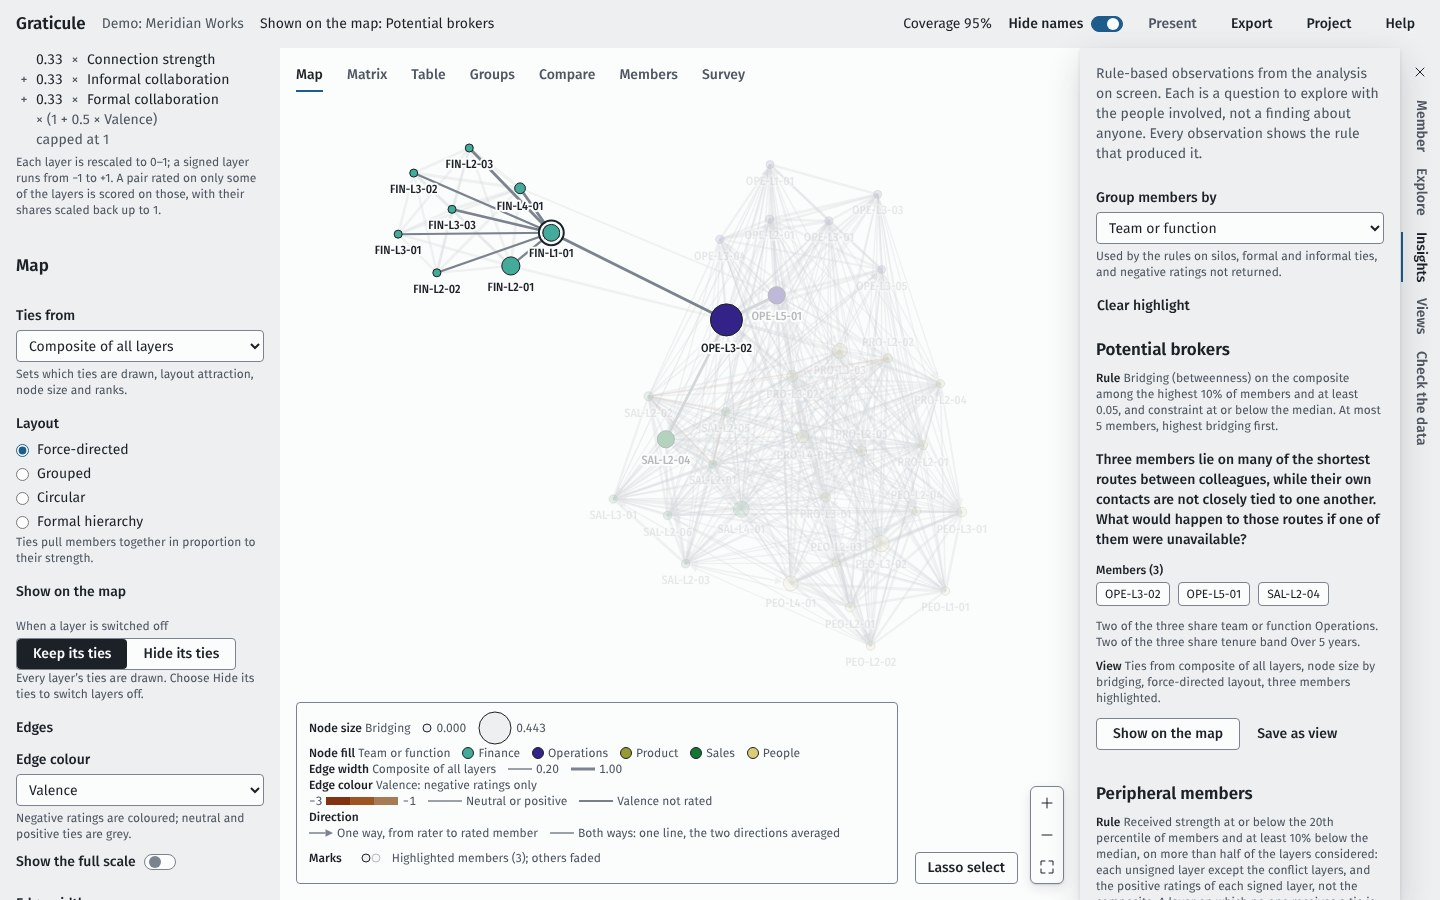
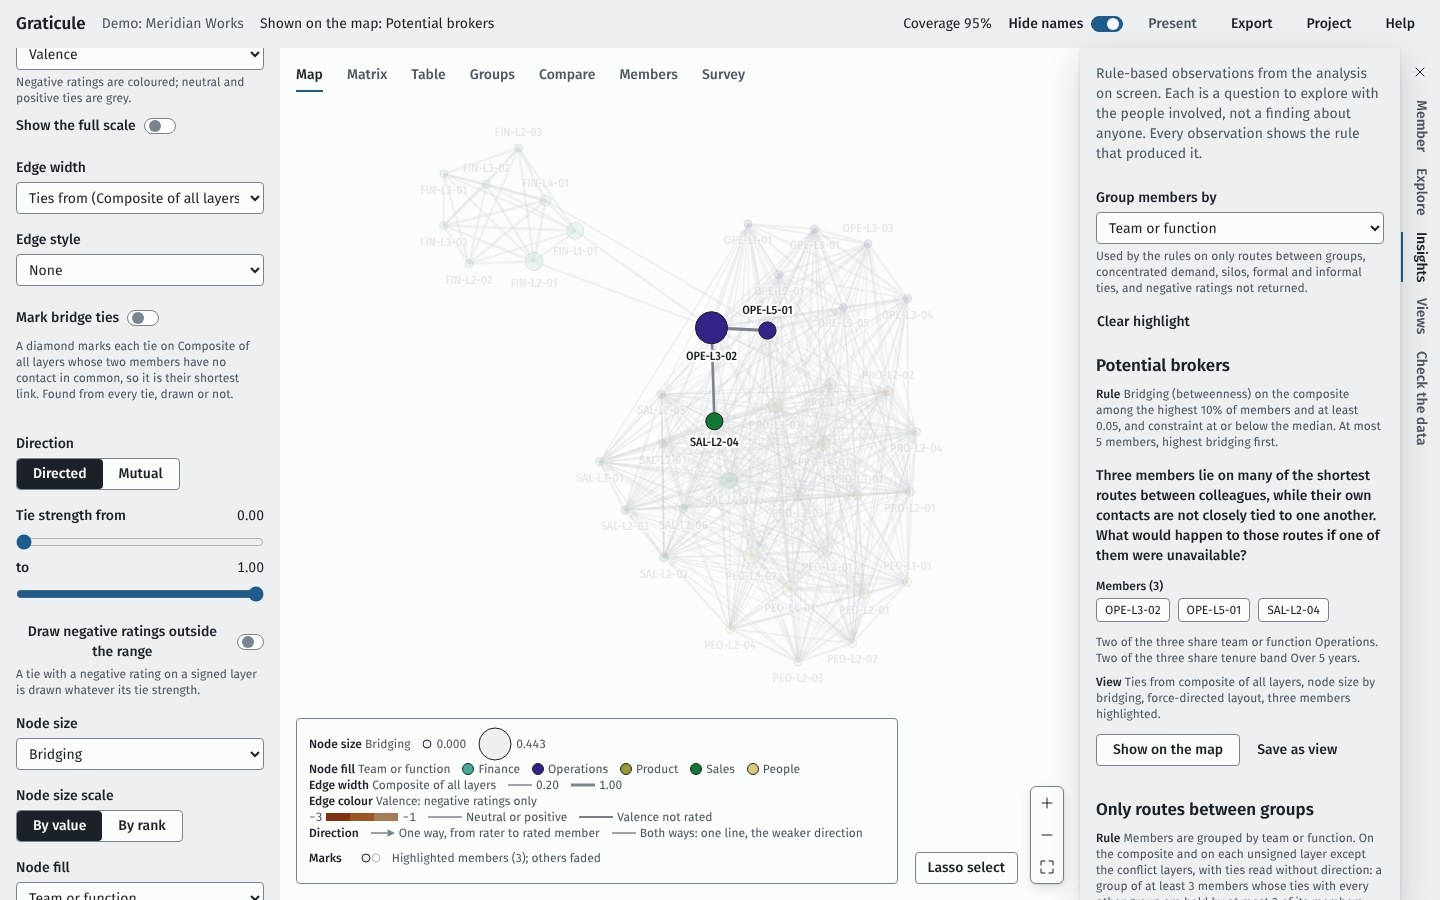
Cover bridge ties and incoming ties in the end-to-end specs and the user guide
Claude-Session: https://claude.ai/code/session_01LVwwwSZeYMQT6nepUGCbDA

diff --git a/tests/e2e/guide.spec.ts b/tests/e2e/guide.spec.ts
@@ -208,6 +208,34 @@ test('screenshots of the analyst workspace, names hidden', NIGHTLY, async ({ pag
   await page.getByRole('radio', { name: 'Force-directed' }).check();
   await settled(page);
 
+  // Bridge ties (build plan session 7): connection strength, mutual by the weaker direction.
+  await page
+    .getByRole('region', { name: 'Map' })
+    .getByLabel('Ties from')
+    .selectOption({ label: 'Connection strength' });
+  await page.getByRole('radio', { name: 'Mutual' }).check();
+  await page
+    .getByLabel('Combine the two directions by')
+    .selectOption({ label: 'Weaker of the two' });
+  // Bridges are often weak ties, so every tie is drawn; no member is selected, so nothing is faded.
+  const closePanel = page.getByRole('button', { name: 'Close member panel' });
+  if ((await closePanel.count()) > 0) await closePanel.first().click();
+  await page.getByLabel('Tie strength from').fill('0');
+  await page.getByRole('switch', { name: 'Mark bridge ties' }).click();
+  await settled(page);
+  await expect(
+    page.getByRole('region', { name: 'Legend' }).getByText(/^Bridge tie: /),
+  ).toBeVisible();
+  await shot(page, 'bridge-ties');
+  await page.getByRole('switch', { name: 'Mark bridge ties' }).click();
+  await page.getByLabel('Tie strength from').fill('0.3');
+  await page.getByRole('radio', { name: 'Directed', exact: true }).check();
+  await page
+    .getByRole('region', { name: 'Map' })
+    .getByLabel('Ties from')
+    .selectOption({ index: 0 });
+  await settled(page);
+
   await rightTab(page, 'Explore').click();
   await right(page).getByLabel('From', { exact: true }).selectOption({ index: 3 });
   await right(page).getByLabel('To', { exact: true }).selectOption({ index: 30 });
@@ -278,6 +306,16 @@ test('screenshots of the analyst workspace, names hidden', NIGHTLY, async ({ pag
   await page.getByRole('radio', { name: 'Tie strength' }).check();
   await centreTab(page, 'Table').click();
   await shot(page, 'metrics-table');
+  // Ranked bars of incoming ties (build plan session 7), on the composite (the demo has no advice layer).
+  await page.getByRole('radio', { name: 'Incoming ties' }).check();
+  const openDrawer = page.getByRole('button', {
+    name: 'Member, insights and coverage',
+    expanded: true,
+  });
+  if ((await openDrawer.count()) > 0) await openDrawer.click();
+  await expect(page.getByRole('table', { name: /^Ties received on / })).toBeVisible();
+  await shot(page, 'incoming-ties');
+  await page.getByRole('radio', { name: 'Metrics' }).check();
   // The Groups view (D154), with Finance chosen as the subgroup, then cleared.
   await centreTab(page, 'Groups').click();
   // The compact layout's drawer, left open by an earlier step, would cover the group map.
@@ -307,7 +345,7 @@ test('screenshots of the analyst workspace, names hidden', NIGHTLY, async ({ pag
   await expectNoNames(page);
 
   const help = await openHelp(page, 'Method notes');
-  await expect(help.getByRole('heading', { name: 'Betweenness' })).toBeVisible();
+  await expect(help.getByRole('heading', { name: 'Betweenness', exact: true })).toBeVisible();
   await shot(page, 'help');
   expect(problems).toEqual([]);
 });
@@ -516,7 +554,7 @@ test(
       'true',
     );
     await expect(dialog.getByRole('heading', { name: 'Method notes' })).toHaveCount(0);
-    await expect(dialog.getByRole('heading', { name: 'Betweenness' })).toBeVisible();
+    await expect(dialog.getByRole('heading', { name: 'Betweenness', exact: true })).toBeVisible();
     await expectNoAxeViolations(page, 'method notes');
 
     // And the method notes link back to the user guide.

diff --git a/tests/e2e/present.spec.ts b/tests/e2e/present.spec.ts
@@ -156,7 +156,17 @@ test('insights: every rule with its rule text, questions, and a link to the view
   await expect(panel.getByText(/Members are grouped by team or function\./).first()).toBeVisible();
   // Each rule states its thresholds; one that cannot run says why.
   await expect(panel.getByText(/among the highest 10% of members/)).toBeVisible();
-  await expect(panel.getByText(/Not applied: this rule reads the advice/)).toBeVisible();
+  // Possible overload and concentrated demand both read advice and workflow dependency.
+  await expect(panel.getByText(/Not applied: this rule reads the advice/)).toHaveCount(2);
+  // Only routes between groups: Finance's two routes on connection strength, and OPE04.
+  await expect(
+    panel.getByText(
+      /two members of the 8 in Finance hold all 2 ties between Finance and other groups/,
+    ),
+  ).toBeVisible();
+  await expect(
+    panel.getByText(/8 members are linked to the rest of the network only through one colleague/),
+  ).toBeVisible();
   // Questions, never verdicts.
   await expect(panel.getByText(/most ties involving Finance stay within Finance/)).toBeVisible();
   await expect(panel.getByText(/How does work reach the rest of the organisation\?/)).toBeVisible();
@@ -420,6 +430,11 @@ test('anonymisation: no display name in the DOM or on the canvas in any view', a
   await page.getByLabel('Search', { exact: true }).fill('FIN');
   await check('map search');
   await page.getByLabel('Search', { exact: true }).fill('');
+  // Bridge ties marked (build plan session 7).
+  await page.getByRole('switch', { name: 'Mark bridge ties' }).click();
+  await settled(page);
+  await check('bridge ties');
+  await page.getByRole('switch', { name: 'Mark bridge ties' }).click();
 
   // Explore tools: ego view, path, subgroup, resilience.
   await rightTab(page, 'Explore').click();
@@ -441,6 +456,10 @@ test('anonymisation: no display name in the DOM or on the canvas in any view', a
   // Table, comparison views, insights, coverage, saved views.
   await centreTab(page, 'Table').click();
   await check('metrics table');
+  // Ranked bars of incoming ties (build plan session 7).
+  await page.getByRole('radio', { name: 'Incoming ties' }).check();
+  await check('incoming ties');
+  await page.getByRole('radio', { name: 'Metrics' }).check();
   // The Groups view (D154): by team and by community, with a group chosen as the subgroup.
   await centreTab(page, 'Groups').click();
   await page

diff --git a/tests/e2e/map.spec.ts b/tests/e2e/map.spec.ts
@@ -165,6 +165,14 @@ test('load demo, map renders, filter, select a member, open the panel, traverse 
     legend.getByText('Community outline, detected on Composite of all layers'),
   ).toBeVisible();
   await page.getByRole('switch', { name: 'Outline communities' }).click();
+  // Bridge ties (build plan session 7): switched by keyboard, explained in the legend.
+  const bridges = page.getByRole('switch', { name: 'Mark bridge ties' });
+  await bridges.focus();
+  await page.keyboard.press('Space');
+  await expect(bridges).toBeChecked();
+  await expect(legend.getByText(/^Bridge tie/)).toBeVisible();
+  await page.keyboard.press('Space');
+  await expect(legend.getByText(/^Bridge tie/)).toHaveCount(0);
   await expectNoAxeViolations(page);
 
   // Layer toggles can also hide a layer's ties.

diff --git a/src/ui/views/RankedBars.tsx b/src/ui/views/RankedBars.tsx
@@ -35,7 +35,12 @@ export function RankedBars({ data }: { data: MapData }) {
   const layer = incomingLayer(layers, chosen, settings.layer);
   const rows = layer ? incomingRows(project, result, layer, model) : [];
   const load = layer ? result.refs[layer]?.load : undefined;
-  const label = (key: string) => refLabel(project, key);
+  const label = (key: string) =>
+    key === 'composite'
+      ? mapCopy.controls.composite
+      : key.endsWith('+')
+        ? T.positive(refLabel(project, key))
+        : refLabel(project, key);
   const fillKey = settings.fill.kind === 'attribute' ? settings.fill.key : settings.groupBy;
   const fillAttr = project.attribute_definitions.find((a) => a.key === fillKey);
   const inGroup = new Set(group);

diff --git a/tests/e2e/release.spec.ts b/tests/e2e/release.spec.ts
@@ -147,7 +147,7 @@ test(
     const help = page.getByRole('dialog', { name: 'Help' });
     await expect(help.getByRole('heading', { name: 'Reading each metric' })).toBeVisible();
     await help.getByRole('tab', { name: 'Method notes' }).click();
-    await expect(help.getByRole('heading', { name: 'Betweenness' })).toBeVisible();
+    await expect(help.getByRole('heading', { name: 'Betweenness', exact: true })).toBeVisible();
     await help.getByRole('tab', { name: 'Help for respondents' }).click();
     await expect(help.getByRole('heading', { name: 'Who will see your answers' })).toBeVisible();
     await help.getByRole('button', { name: 'Close' }).click();

diff --git a/src/ui/copy/table.ts b/src/ui/copy/table.ts
@@ -42,6 +42,7 @@ export const tableCopy = {
 
   incoming: {
     layer: 'Layer',
+    positive: (layer: string) => `${layer}, positive ratings`,
     caption: (layer: string, n: number) =>
       `Ties received on ${layer} by ${count(n, 'member', 'members')}, most first`,
     rank: 'Rank',

diff --git a/docs/user-guide.md b/docs/user-guide.md
@@ -218,7 +218,7 @@ The legend shows:
 - **Edge width**: tie strength on the layer chosen under Ties from, or on another layer you choose; or the same for every tie. A tie with no rating on the width layer is drawn thinnest, in grey, with its own legend entry, so it is never read as 0.
 - **Edge colour**: by default, negative valence ratings in orange-brown, with neutral and positive ties in grey; "Show the full scale" adds blue for positive ratings. Ties with no valence rating are dark grey, so they are never read as neutral. Edge colour can instead show another signed layer, the strength of any layer on a blue ramp, whether a tie runs within or between groups, or nothing.
 - **Edge style**: formal only (solid), informal only (dashed), both (solid with a dashed line), or neither (dotted). It is off until you choose it under Edge style.
-- **Marks**: community outlines, when switched on, and the subgroup, a shortest path or highlighted members.
+- **Marks**: community outlines and bridge ties, when switched on, and the subgroup, a shortest path or highlighted members.
 - **Direction**: in the directed view, a tie rated one way has an arrowhead from the rater to the person rated; a pair rated both ways is one line without arrowheads, whose width and colour combine the two directions by the rule chosen under Direction.
 
 ![The full legend: node size, node fill, edge width, edge colour, edge style and arrowheads](user-guide/legend.jpg)
@@ -227,7 +227,9 @@ The legend shows:
 
 - **Ties from** chooses the layer, or the composite, that sets which ties are drawn, their width, the layout, node size, communities and ranks.
 - **Show on the map**: with "Hide its ties", a switch for each layer hides the pairs tied on it; every layer starts on. With "Keep its ties" (the default) every layer's ties are drawn.
-- **Edges**: Edge colour, Edge width and Edge style, as in the legend above. Each line encoding shows one thing at a time.
+- **Edges**: Edge colour, Edge width and Edge style, as in the legend above. Each line encoding shows one thing at a time. **Mark bridge ties** puts an orange diamond on each tie whose two members have no contact in common (a local bridge): without that tie, any route between them is longer, or there is none. Bridges are found from every tie of the layer drawn, not only those within the range, and the legend counts the ones drawn.
+
+![Bridge ties marked on the map: an orange diamond on each tie whose two members share no contact](user-guide/bridge-ties.jpg)
 - **Direction.** Directed shows each person's ratings separately. Mutual combines the two directions of each pair, by their average, the weaker or the stronger of the two, or "Both report a tie", which keeps a tie only when each has rated the other above 0. Under the weaker of the two, a tie to someone who did not answer survives, because their missing rating is filled from the one given; under "Both report a tie" it does not. The choice changes the metrics, so it is stated in every export.
 - **Tie strength from** and **to** draw only the ties whose strength lies within the range, both ends included; the metrics still use every tie. Set from 0.30 to 0.50, for example, to see only the middling ties. The map opens at 0.30 to 1.00, so the weakest ties are hidden, and the legend says which ties are hidden; set the range to 0 to 1 to draw every tie. From can never be above to: moving one slider past the other moves both. Showing an insight on the map draws every tie, and a saved view keeps its own range.
 - **Draw negative ratings outside the range** (when valence or energy is enabled) also draws every tie that carries a negative rating, however weak. With valence as a multiplier on the composite, a negatively rated tie is weakened and often falls below 0.30, so it would otherwise be hidden.
@@ -246,13 +248,16 @@ The legend shows:
 Selecting a member, a subgroup, a filter or an ego view applies to every view.
 
 - **Matrix → Tie strength**: an adjacency matrix, shaded by tie strength, which can be ordered by name, attribute, community or a metric.
-- **Table**: every member's metrics, sortable by any column. Export table saves it as CSV. Rank stability recalculates a metric many times, each time leaving out some members, and shows the range each rank falls in.
+- **Table → Metrics**: every member's metrics, sortable by any column. Export table saves it as CSV. Rank stability recalculates a metric many times, each time leaving out some members, and shows the range each rank falls in.
+- **Table → Incoming ties**: a ranked bar chart of how many colleagues name each member on a chosen layer (advice first, then workflow dependency, then Ties from), most first, with each member's share of all ties received. A line marks where the top 10 % of members ends (where several members receive the same number at that point, member order decides which are above the line; the share is the same either way), and a sentence above says what share of all ties they receive against an even spread. It is a table, so a screen reader reads it row by row; filters and the ego view choose who is listed.
 - **Groups**: ties within and between groups. Choose "Group by" (any category attribute, such as team, location or level, or Community, the groups detected on the layer) and "Ties from". The matrix shows, for each group and each pair of groups, the share of the ties possible that exist, shaded from fewer to more; in the directed view rows give and columns receive. Arrow keys move between cells and a sentence names the cell ("Finance to Sales: 4 of 64 possible ties, 6%"). Enter makes the row's group the subgroup in every view, and Shift and Enter makes it both groups of the cell. The group map draws one circle per group, sized by its members, with thicker lines between groups that share more of their possible ties; click a circle to choose that group. The table lists each group's members, ties inside, ties leaving and E-I index; press a group's name to choose it, and again to clear the subgroup. Every member and tie counts, whatever the map's range and filters. The PDF report's table of ties within and between groups uses the grouping chosen here.
 - **Compare**: two layers side by side on the same positions, with their overlap; or formal against informal collaboration, classifying each pair as formal only, informal only, both or neither.
 
 ![The adjacency matrix, ordered by name, with the tie strength key](user-guide/adjacency-matrix.jpg)
 
 ![The metrics table: one row per member, one column per metric](user-guide/metrics-table.jpg)
+
+![Incoming ties on the demo's composite, ranked, with bars and the top 10 % marked](user-guide/incoming-ties.jpg)
 
 ![The Groups view by team: the share of possible ties within and between teams, the group map and the table per team](user-guide/groups-view.jpg)
 
@@ -319,15 +324,17 @@ The checks change no figure. The definitions and thresholds are in the [method n
 
 ### Insights
 
-The Insights tab lists rule-based observations: potential brokers, peripheral members, possible overload, silos, negative clusters, negative ratings not returned, and formal ties with no informal counterpart (and the reverse). Each is written as a question to explore with the people involved, never as a finding about anyone, and each shows the rule and thresholds that produced it. Under the members named, an observation says what most of them have in common when it is more common among them than in the project as a whole, for example "Three of the five share tenure band Under 1 year", and marks anyone named who gave no ratings. Show on the map sets the map up to show the observation; Save as view keeps it for a presentation. The rules are in the [method notes](method-notes.md#8-insight-rules).
+The Insights tab lists rule-based observations: potential brokers, only routes between groups, peripheral members, possible overload, concentrated demand, silos, negative clusters, negative ratings not returned, and formal ties with no informal counterpart (and the reverse). Each is written as a question to explore with the people involved, never as a finding about anyone, and each shows the rule and thresholds that produced it. Under the members named, an observation says what most of them have in common when it is more common among them than in the project as a whole, for example "Three of the five share tenure band Under 1 year", and marks anyone named who gave no ratings. Show on the map sets the map up to show the observation; Save as view keeps it for a presentation. The rules are in the [method notes](method-notes.md#8-insight-rules).
 
-**Group members by** chooses the attribute the silo, formal–informal and negative-ratings rules compare: team by default, or any other category, such as a programme in a matrix organisation or the former organisation after a merger. The choice is saved with the project, and each rule names it.
+**Group members by** chooses the attribute the only-routes, concentrated-demand, silo, formal–informal and negative-ratings rules compare: team by default, or any other category, such as a programme in a matrix organisation or the former organisation after a merger. The choice is saved with the project, and each rule names it.
 
 A few things the rules do so that realistic data does not mislead:
 
 - Silos are checked only when there are at least two groups of three or more members; with one group, every tie is inside it by definition. The conflict layers are not read, because conflict between colleagues stays inside a team by nature.
 - Potential brokers need a bridging score of at least 0.05, and peripheral members must be at least 10 % below the median, so small differences in a close-knit team are not reported.
 - At most five peripheral members are listed, and the question says how many were found. Peripheral members who make up at least half of a silo group are named with that group instead of twice.
+- Only routes between groups names a group of three or more whose ties with every other group are held by at most two of its members, and at most half the group, on the composite or any working layer; and any member through whom alone three or more colleagues are linked to the rest (a cut point). Its view marks bridge ties.
+- Concentrated demand reads advice and workflow dependency: it is observed when the 10 % of members named most receive at least 25 % of all ties, or when, within a group of five or more, the group's own top members receive at least 2.5 times an even share. Possible overload stays beside it: one describes how demand is spread, the other names who receives most.
 - Negative ratings not returned counts negative ratings whose reverse is neutral, positive or missing, by group. Its view draws negative ratings whatever the tie strength. A one-way rating can reflect how someone rates in general, or a colleague who did not answer, as much as the relationship.
 
 The conflict layers have weight 0 in the composite by default, so frequent conflict does not make a stronger tie; give them a weight in Custom if you want them counted.
